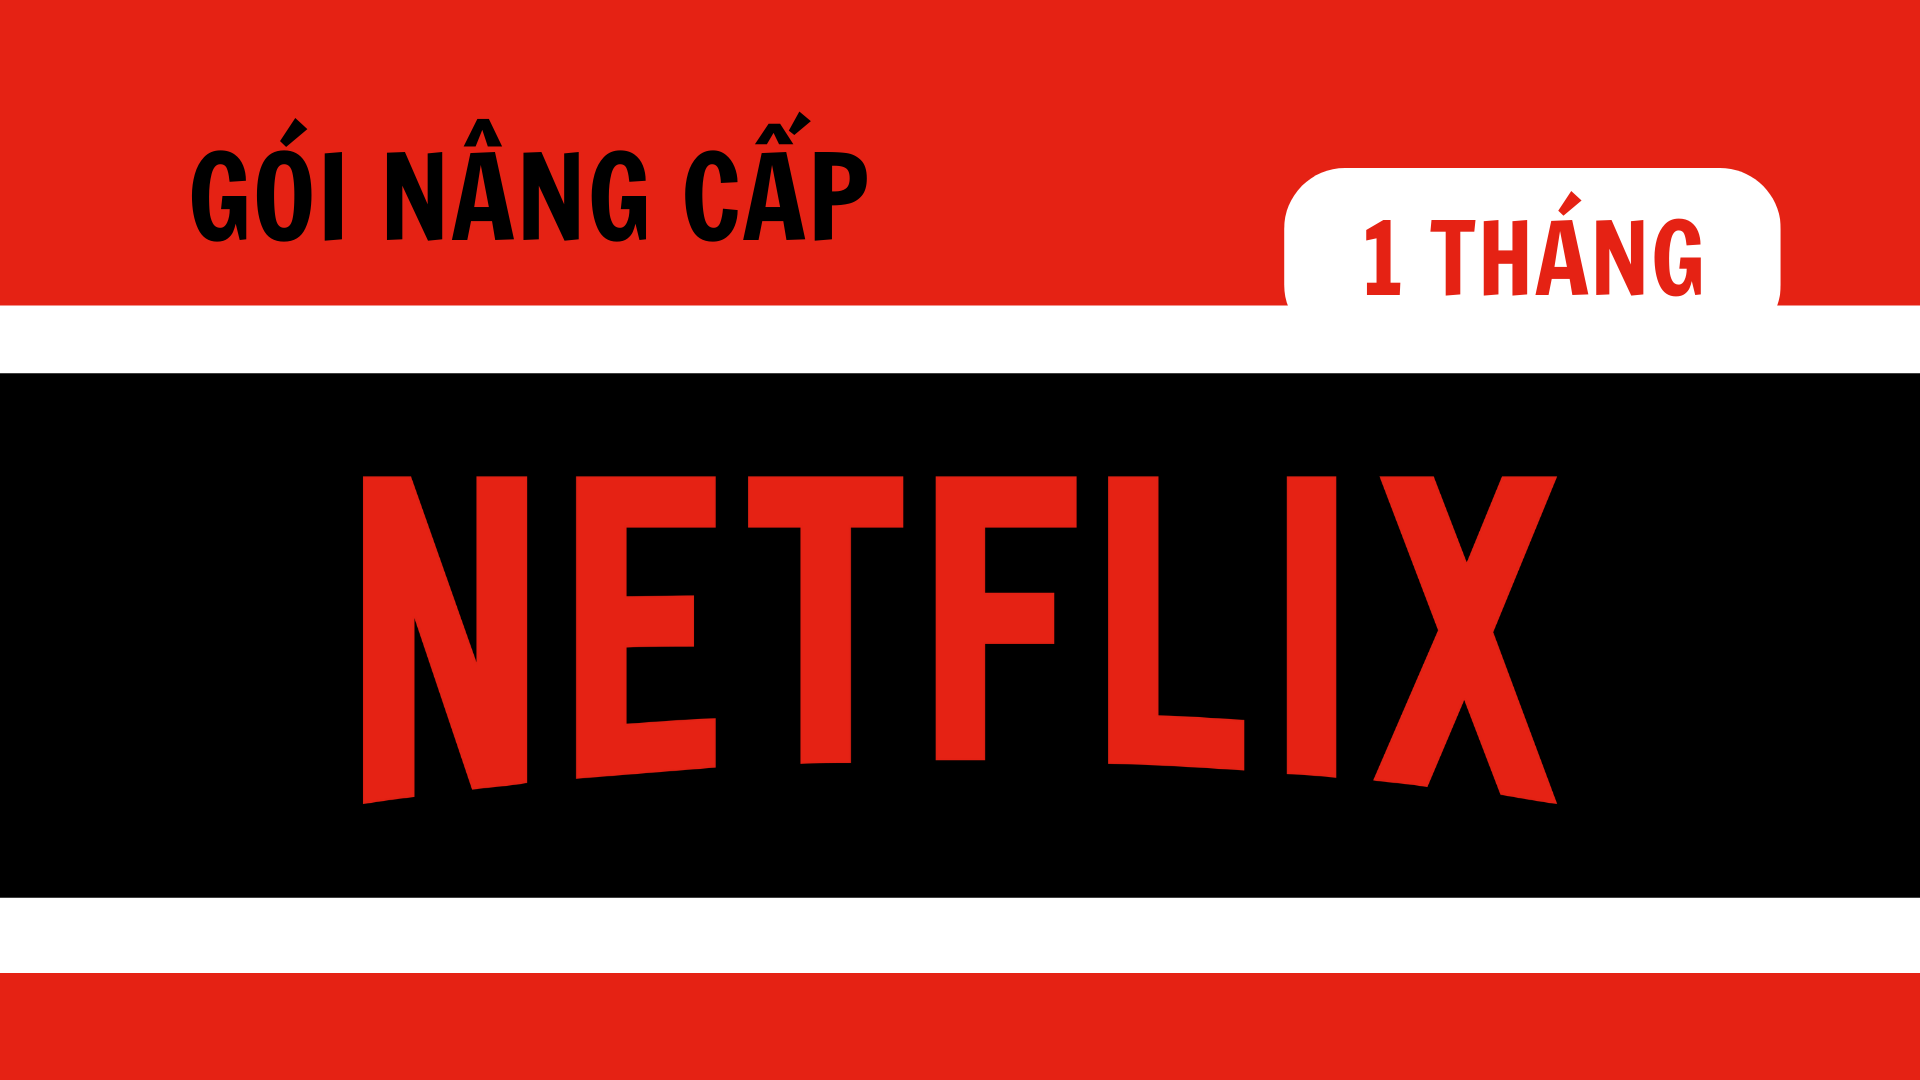
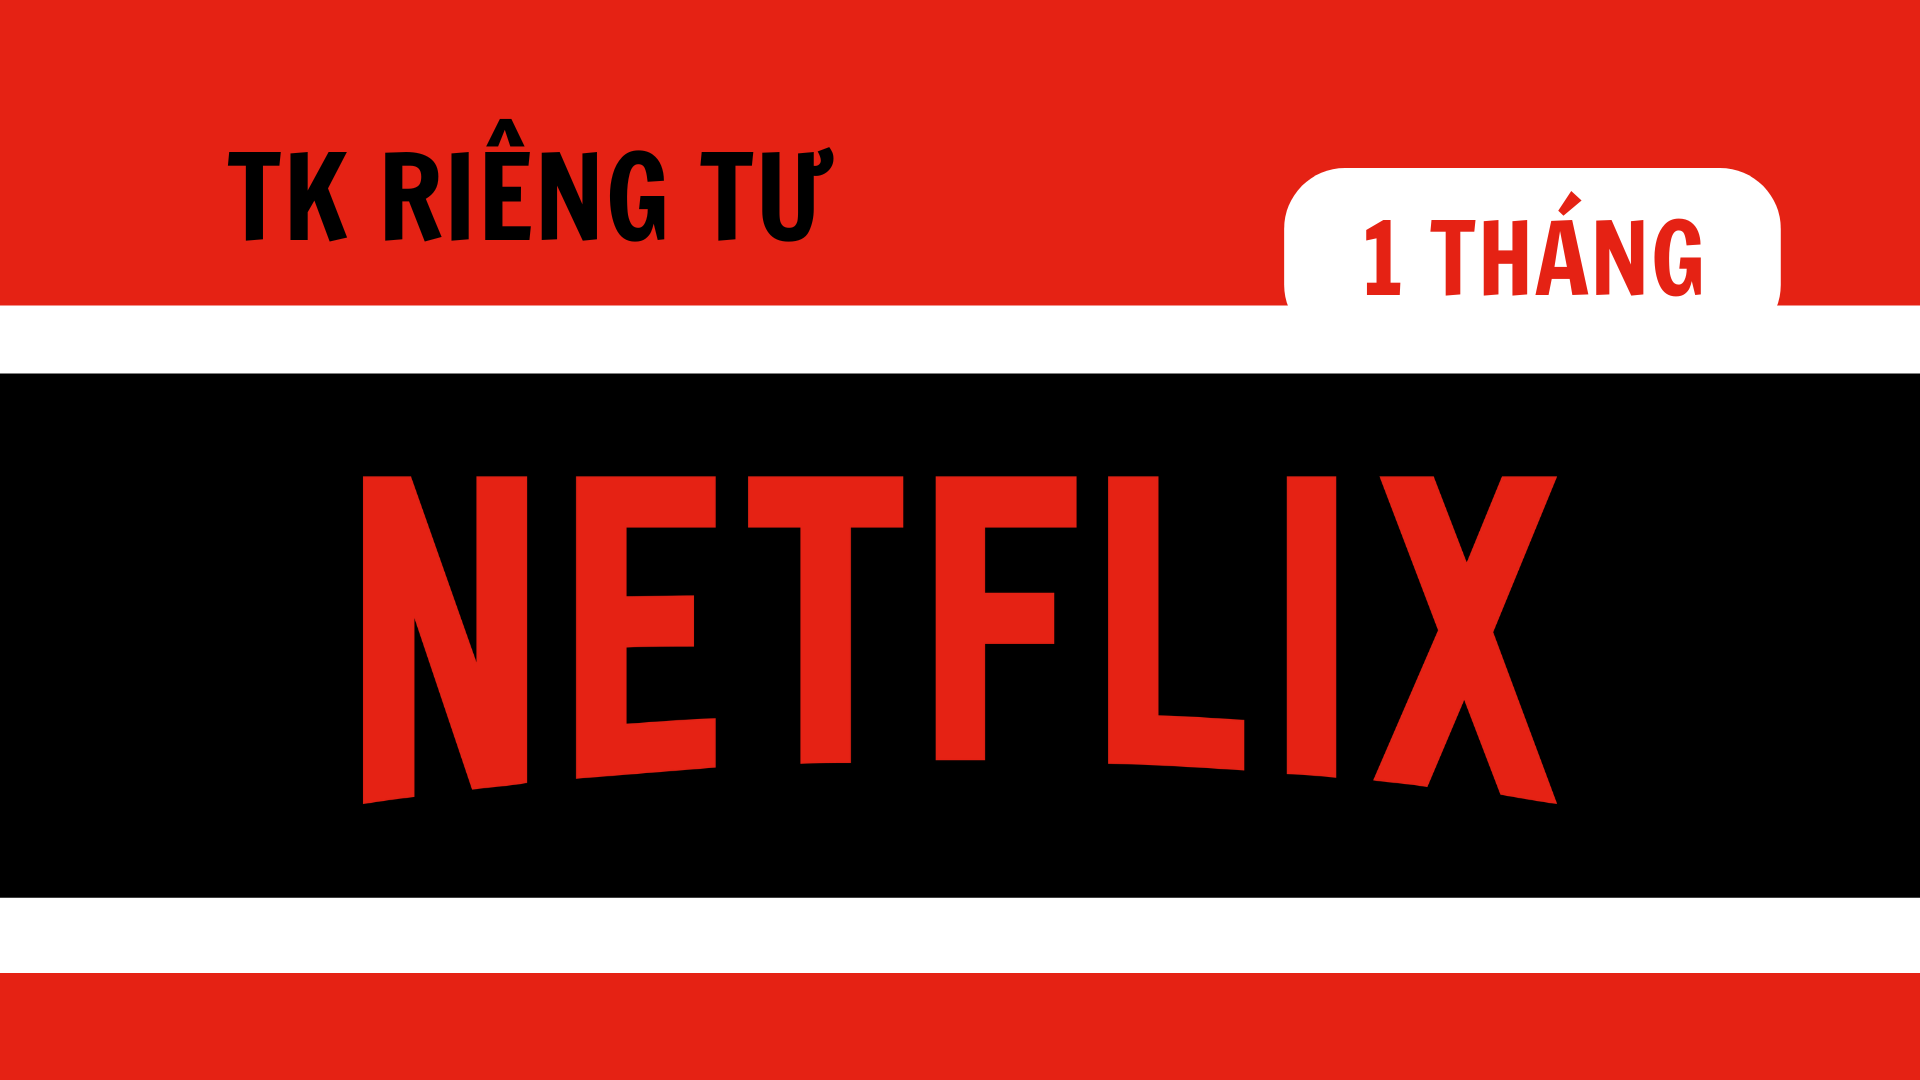
new

Changed region(s): [[0.0938, 0.0917, 0.4688, 0.2444]]

diff --git a/script.js b/script.js
@@ -60,7 +60,7 @@ const products = [
     category: "Giải trí",
     price: 69000,
     originalPrice: 99000,
-    service: "Sắp ra mắt",
+    service: "Tài khoản riêng tư",
     description: "Ultra HD 4K",
     image: "./img/netflix_1thang.png",
   },
